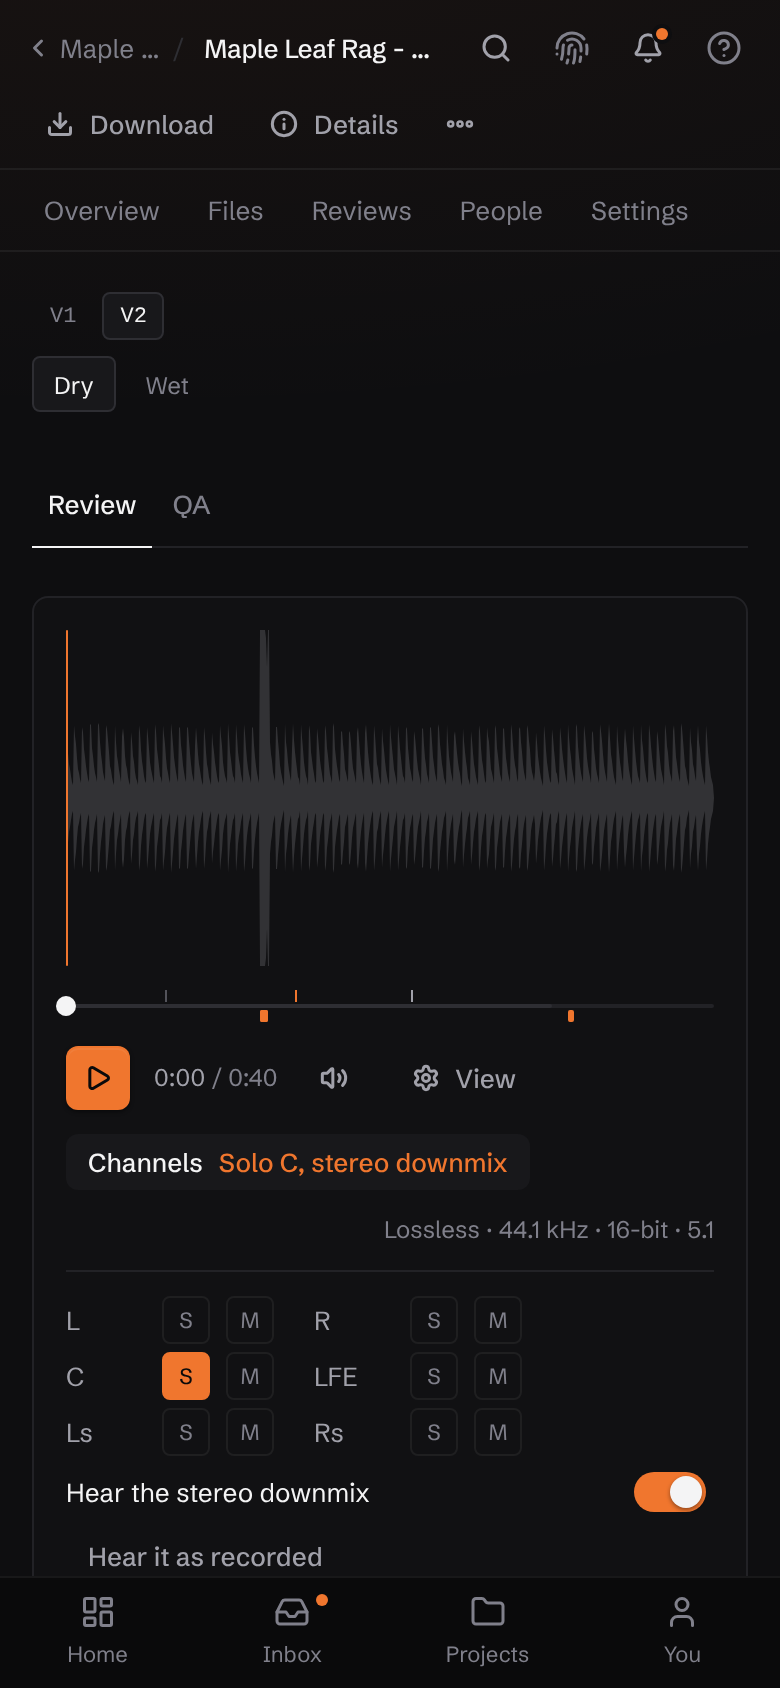
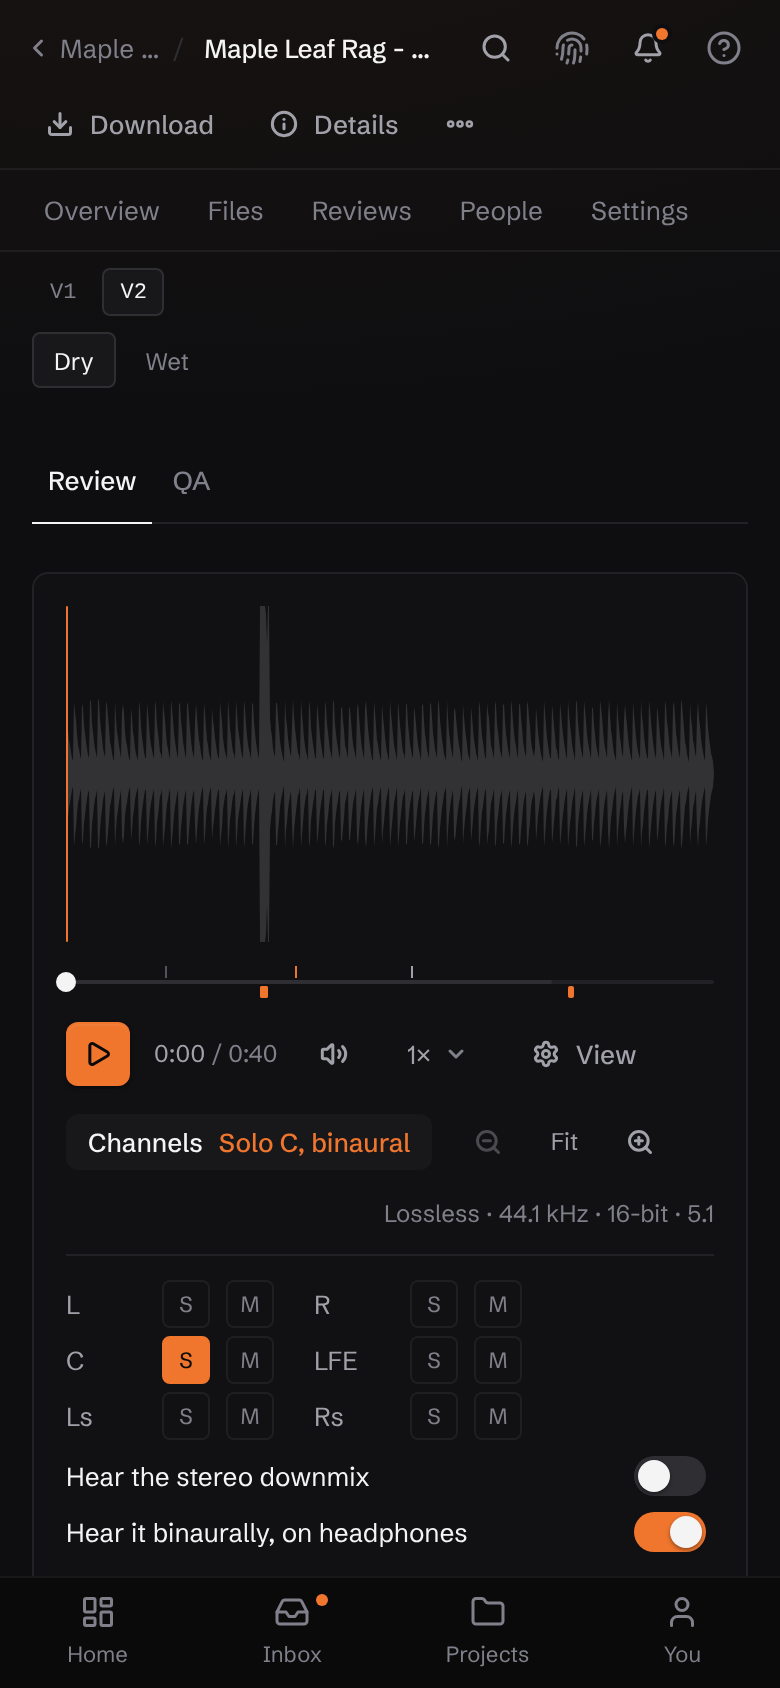
feat(web): hear a surround recording binaurally, on headphones (#307)
Refs #74

Claude-Session: https://claude.ai/code/session_015TRj2XJrf2hGBbTKBkRfmp

diff --git a/apps/web/src/lib/channel-mix.ts b/apps/web/src/lib/channel-mix.ts
@@ -7,18 +7,22 @@ import { useEffect } from "react";
  * which carries every channel as recorded.
  */
 
-/** What is chosen: one channel soloed, any muted, and whether surround folds down to stereo. */
+/**
+ * What is chosen: one channel soloed, any muted, and whether surround folds down to stereo or
+ * is rendered binaurally for headphones (one or the other).
+ */
 export interface ChannelMix {
   solo: number | null;
   muted: readonly number[];
   downmix: boolean;
+  binaural: boolean;
 }
 
-export const plainMix: ChannelMix = { solo: null, muted: [], downmix: false };
+export const plainMix: ChannelMix = { solo: null, muted: [], downmix: false, binaural: false };
 
 /** Whether a mix changes anything: the plain one is the recording as the browser plays it. */
 export const isPlain = (mix: ChannelMix) =>
-  mix.solo === null && mix.muted.length === 0 && !mix.downmix;
+  mix.solo === null && mix.muted.length === 0 && !mix.downmix && !mix.binaural;
 
 /**
  * Speakers as engineers name them, from ffmpeg's channel labels (FL, FR, FC, LFE...). The rear
@@ -116,6 +120,108 @@ export function mixUnavailable(channels: number, rendition: string | null): stri
   return "Choose Lossless to hear each channel.";
 }
 
+/** Degrees to the left of straight ahead (azimuth) and above the ear (elevation). */
+interface Direction {
+  azimuth: number;
+  elevation: number;
+}
+
+/**
+ * Where each speaker stands around the listener, as ITU-R BS.2051 places them: the front pair
+ * at 30°, the surrounds of 5.1 at 110°, those of 7.1 at 90° (sides) and 135° (rears), and the
+ * height layer 30° up. The LFE has no place: it is heard from everywhere.
+ */
+export function speakerDirection(label: string, labels: readonly string[]): Direction | null {
+  const withRears = labels.includes("SL") && labels.includes("BL");
+  const at = (azimuth: number, elevation = 0) => ({ azimuth, elevation });
+  switch (label) {
+    case "FL":
+      return at(30);
+    case "FR":
+      return at(-30);
+    case "FC":
+      return at(0);
+    case "FLC":
+      return at(15);
+    case "FRC":
+      return at(-15);
+    case "SL":
+      return at(withRears ? 90 : 110);
+    case "SR":
+      return at(withRears ? -90 : -110);
+    case "BL":
+      return at(withRears ? 135 : 110);
+    case "BR":
+      return at(withRears ? -135 : -110);
+    case "BC":
+      return at(180);
+    case "TFL":
+      return at(45, 30);
+    case "TFR":
+      return at(-45, 30);
+    case "TFC":
+      return at(0, 30);
+    case "TSL":
+      return at(90, 30);
+    case "TSR":
+      return at(-90, 30);
+    case "TBL":
+      return at(135, 30);
+    case "TBR":
+      return at(-135, 30);
+    case "TBC":
+      return at(180, 30);
+    case "TC":
+      return at(0, 90);
+    // The wides, the surround directs and a downmix pair, as ffmpeg names them.
+    case "WL":
+      return at(60);
+    case "WR":
+      return at(-60);
+    case "SDL":
+      return at(90);
+    case "SDR":
+      return at(-90);
+    case "DL":
+      return at(30);
+    case "DR":
+      return at(-30);
+    // The bottom layer, below the ear.
+    case "BFL":
+      return at(45, -30);
+    case "BFR":
+      return at(-45, -30);
+    case "BFC":
+      return at(0, -30);
+    default:
+      return null;
+  }
+}
+
+const isLfe = (label: string) => /^LFE\d?$/.test(label);
+
+/**
+ * Whether a layout can be heard binaurally: each channel an LFE or a speaker with a known
+ * place. One that is neither would be guessed at, so the option is not offered.
+ */
+export const canBinaural = (labels: readonly string[] | null) =>
+  Boolean(labels?.every((l) => isLfe(l) || speakerDirection(l, labels) !== null));
+
+/**
+ * A direction as Web Audio's coordinates, a metre away: the listener at the origin facing −z,
+ * x to the right, y up.
+ */
+export function panPosition({ azimuth, elevation }: Direction) {
+  const a = (azimuth * Math.PI) / 180;
+  const e = (elevation * Math.PI) / 180;
+  const round = (n: number) => Math.round(n * 1e6) / 1e6 || 0;
+  return {
+    x: round(-Math.sin(a) * Math.cos(e)),
+    y: round(Math.sin(e)),
+    z: round(-Math.cos(a) * Math.cos(e)),
+  };
+}
+
 /** Each channel's level under a mix: a solo silences the rest, a mute its channel. */
 export const channelGains = (channels: number, mix: ChannelMix) =>
   Array.from({ length: channels }, (_, i) =>
@@ -129,7 +235,7 @@ export function mixLabel(mix: ChannelMix, names: readonly string[]): string | nu
     mix.solo === null && mix.muted.length > 0
       ? `${mix.muted.map((i) => names[i] ?? i + 1).join(", ")} muted`
       : null,
-    mix.downmix ? "stereo downmix" : null,
+    mix.binaural ? "binaural" : mix.downmix ? "stereo downmix" : null,
   ].filter(Boolean) as string[];
   if (parts.length === 0) return null;
   const text = parts.join(", ");
@@ -175,7 +281,42 @@ export function useChannelMix(
     const levels = channelGains(channels, mix);
     const nodes: AudioNode[] = [splitter];
     // A fold-down needs to know which speaker each channel is; without that, none is made.
-    if (mix.downmix && labels) {
+    if (mix.binaural && labels && canBinaural(labels)) {
+      // Each speaker at its place around the listener, through the browser's HRTF; the LFE
+      // to both ears. Scaled by the speakers' count so a wide layout is no louder than stereo.
+      const placed = labels.filter((l) => speakerDirection(l, labels)).length;
+      const scale = Math.sqrt(2 / Math.max(2, placed));
+      const out = context.createGain();
+      out.gain.value = scale;
+      labels.forEach((label, i) => {
+        const gain = context.createGain();
+        gain.gain.value = levels[i] ?? 0;
+        splitter.connect(gain, i);
+        nodes.push(gain);
+        const direction = speakerDirection(label, labels);
+        // canBinaural leaves only the LFE without a place: to both ears.
+        if (!direction) {
+          gain.gain.value *= HALF;
+          gain.connect(out);
+          return;
+        }
+        const { x, y, z } = panPosition(direction);
+        // No fall-off with distance: only the direction is wanted.
+        const panner = new PannerNode(context, {
+          panningModel: "HRTF",
+          rolloffFactor: 0,
+          positionX: x,
+          positionY: y,
+          positionZ: z,
+        });
+        gain.connect(panner);
+        panner.connect(out);
+        nodes.push(panner);
+      });
+      context.destination.channelCount = 2;
+      out.connect(context.destination);
+      nodes.push(out);
+    } else if (mix.downmix && labels) {
       const merger = context.createChannelMerger(2);
       downmixGains(labels).forEach((share, i) => {
         for (const [output, amount] of [

diff --git a/apps/web/src/lib/channel-mix.test.ts b/apps/web/src/lib/channel-mix.test.ts
@@ -1,11 +1,14 @@
 import { describe, expect, it } from "vitest";
 import {
+  canBinaural,
   channelGains,
   downmixGains,
   isPlain,
   mixLabel,
   mixUnavailable,
+  panPosition,
   plainMix,
+  speakerDirection,
   speakerNames,
 } from "./channel-mix";
 
@@ -71,5 +74,33 @@ describe("hearing a recording's channels (#74)", () => {
     expect(mixUnavailable(6, "aac-256")).toMatch(/stereo downmix: choose Lossless/);
     expect(mixUnavailable(6, "eac3")).toMatch(/Dolby stream/);
     expect(mixUnavailable(12, "flac")).toMatch(/12 channels; a browser plays up to 8/);
+  });
+
+  it("places each speaker around the listener for a binaural render, the LFE nowhere", () => {
+    expect(speakerDirection("FL", fiveOne)).toEqual({ azimuth: 30, elevation: 0 });
+    // 5.1's surrounds at 110°; 7.1's sides at 90° and rears at 135°.
+    expect(speakerDirection("SR", fiveOne)).toEqual({ azimuth: -110, elevation: 0 });
+    expect(speakerDirection("SL", sevenOne)).toEqual({ azimuth: 90, elevation: 0 });
+    expect(speakerDirection("BL", sevenOne)).toEqual({ azimuth: 135, elevation: 0 });
+    expect(speakerDirection("TFL", [...sevenOne, "TFL"])).toEqual({ azimuth: 45, elevation: 30 });
+    expect(speakerDirection("LFE", fiveOne)).toBeNull();
+    expect(speakerDirection("WL", [...sevenOne, "WL", "WR"])).toEqual({
+      azimuth: 60,
+      elevation: 0,
+    });
+    // Offered only where every channel is an LFE or has a place.
+    expect(canBinaural(fiveOne)).toBe(true);
+    expect(canBinaural([...sevenOne, "LFE2"])).toBe(true);
+    expect(canBinaural(["FL", "FR", "FC", "XQ"])).toBe(false);
+    expect(canBinaural(null)).toBe(false);
+    // Web Audio faces −z with x to the right: the centre ahead, the left to the left, the top up.
+    expect(panPosition({ azimuth: 0, elevation: 0 })).toEqual({ x: 0, y: 0, z: -1 });
+    expect(panPosition({ azimuth: 90, elevation: 0 })).toEqual({ x: -1, y: 0, z: 0 });
+    expect(panPosition({ azimuth: 0, elevation: 90 })).toMatchObject({ y: 1 });
+  });
+
+  it("says when it is heard binaurally", () => {
+    expect(mixLabel({ ...plainMix, binaural: true }, speakerNames(fiveOne, 6))).toBe("Binaural");
+    expect(isPlain({ ...plainMix, binaural: true })).toBe(false);
   });
 });

diff --git a/apps/prototype/src/components/video-tools.tsx b/apps/prototype/src/components/video-tools.tsx
@@ -275,10 +275,11 @@ export function AudioLayoutMenu({ layout }: { layout: string }) {
   const [muted, setMuted] = useState<Set<string>>(new Set());
   const [solo, setSolo] = useState<string | null>(null);
   const [downmix, setDownmix] = useState(false);
+  const [binaural, setBinaural] = useState(false);
   const heard = [
     solo ? `Solo ${solo}` : null,
     !solo && muted.size > 0 ? `${[...muted].join(", ")} muted` : null,
-    downmix ? "stereo downmix" : null,
+    binaural ? "binaural" : downmix ? "stereo downmix" : null,
   ]
     .filter(Boolean)
     .join(", ");
@@ -346,7 +347,27 @@ export function AudioLayoutMenu({ layout }: { layout: string }) {
           {channels.length > 2 && (
             <div className="flex items-center justify-between text-[13px] text-ink">
               Hear the stereo downmix
-              <Switch label="Hear the stereo downmix" checked={downmix} onChange={setDownmix} />
+              <Switch
+                label="Hear the stereo downmix"
+                checked={downmix}
+                onChange={(on) => {
+                  setDownmix(on);
+                  if (on) setBinaural(false);
+                }}
+              />
+            </div>
+          )}
+          {channels.length > 2 && (
+            <div className="flex items-center justify-between text-[13px] text-ink">
+              Hear it binaurally, on headphones
+              <Switch
+                label="Hear it binaurally, on headphones"
+                checked={binaural}
+                onChange={(on) => {
+                  setBinaural(on);
+                  if (on) setDownmix(false);
+                }}
+              />
             </div>
           )}
           {heard && (
@@ -356,6 +377,7 @@ export function AudioLayoutMenu({ layout }: { layout: string }) {
                 setSolo(null);
                 setMuted(new Set());
                 setDownmix(false);
+                setBinaural(false);
               }}
               className="w-fit text-[13px] text-ink-3 hover:text-ink"
             >

diff --git a/apps/web/src/components/channels.tsx b/apps/web/src/components/channels.tsx
@@ -80,6 +80,7 @@ export function ChannelsPanel({
   mix,
   onMix,
   canDownmix,
+  canBinaural = false,
   unavailable,
   levelsOf,
 }: {
@@ -89,6 +90,8 @@ export function ChannelsPanel({
   onMix: (mix: ChannelMix) => void;
   /** Whether a stereo downmix can be made: only where the layout names every channel. */
   canDownmix: boolean;
+  /** Whether it can be heard binaurally: only where every channel has a known place. */
+  canBinaural?: boolean;
   /** Why the channels cannot be heard apart in what is playing, if they cannot. */
   unavailable?: string;
   /** Where to read each channel's level at the playhead; none for those without the meters. */
@@ -178,7 +181,18 @@ export function ChannelsPanel({
               <Switch
                 label="Hear the stereo downmix"
                 checked={mix.downmix}
-                onChange={(downmix) => onMix({ ...mix, downmix })}
+                onChange={(downmix) => onMix({ ...mix, downmix, binaural: false })}
+              />
+            </div>
+          )}
+          {names.length > 2 && canBinaural && (
+            // Each speaker placed around the listener, for headphones (#74).
+            <div className="flex items-center justify-between gap-3 text-[13px] text-ink">
+              Hear it binaurally, on headphones
+              <Switch
+                label="Hear it binaurally, on headphones"
+                checked={mix.binaural}
+                onChange={(binaural) => onMix({ ...mix, binaural, downmix: false })}
               />
             </div>
           )}

diff --git a/apps/web/src/components/player.tsx b/apps/web/src/components/player.tsx
@@ -26,6 +26,7 @@ import {
 } from "react";
 import {
   type ChannelMix,
+  canBinaural,
   mixUnavailable,
   plainMix,
   speakerNames,
@@ -271,8 +272,13 @@ export function Player({
   const names = useMemo(() => speakerNames(labels, channels), [labels, channels]);
   const heardRendition = choices.find((c) => c.level === level)?.rendition.name ?? null;
   const channelsUnavailable = mixUnavailable(channels, heardRendition);
-  // Folding down needs each channel's speaker; a file that does not say offers no downmix.
-  const heardMix = channelsUnavailable ? plainMix : labels ? mix : { ...mix, downmix: false };
+  // Folding down or placing the speakers needs each channel's speaker; a file that does not
+  // say offers neither.
+  const heardMix = channelsUnavailable
+    ? plainMix
+    : labels
+      ? { ...mix, binaural: mix.binaural && canBinaural(labels) }
+      : { ...mix, downmix: false, binaural: false };
   useChannelMix(element, channels, labels, heardMix);
   const view: WaveformView = split && channels > 1 ? "channels" : "combined";
   const display: Display =
@@ -992,6 +998,7 @@ export function Player({
               names={names}
               mix={heardMix}
               canDownmix={labels !== null}
+              canBinaural={canBinaural(labels)}
               onMix={setMix}
               unavailable={channelsUnavailable}
               levelsOf={!tools || tools.includes("meters") ? { fileId, media: element } : undefined}

diff --git a/apps/e2e/tests/screens.spec.ts b/apps/e2e/tests/screens.spec.ts
@@ -859,6 +859,10 @@ test("file-channels", async ({ page }) => {
     await menu.getByRole("button", { name: "Solo C" }).click();
     await menu.getByRole("switch", { name: "Hear the stereo downmix" }).click();
     await expect(page.getByRole("button", { name: /^Channels: solo c/ })).toBeVisible();
+    // Binaural in its place: one or the other.
+    await menu.getByRole("switch", { name: "Hear it binaurally, on headphones" }).click();
+    await expect(page.getByRole("button", { name: "Channels: solo c, binaural" })).toBeVisible();
+    await expect(menu.getByRole("switch", { name: "Hear the stereo downmix" })).not.toBeChecked();
   }
   await saveScreen(page, "file-channels");
   await checkScreen(page);

diff --git a/docs/decisions.md b/docs/decisions.md
@@ -397,7 +397,7 @@ The QA view's tally is also its filter (#43): each count of a problem ("4 failed
 
 ## 098. A recording's channels are heard apart in the browser
 
-The player hears a recording's channels apart (#74), as the prototype's audio layout menu does: a Channels button beside View opens, under the player's controls as the View settings do, a row for each speaker (L, R, C, LFE, Ls, Rs, as engineers name them from the file's layout) with solo and mute, and, for anything wider than stereo whose layout names each channel, "Hear the stereo downmix" (a file that does not say which speaker each channel is gets no downmix, rather than one that guesses). The button says what is changed ("Solo C, stereo downmix"), and "Hear it as recorded" undoes it. It is done in the browser with Web Audio over the stream that plays, so no new rendition is made and nothing leaves the protected delivery path: the channels are split, each given its level, and either folded to stereo (ITU-R BS.775: the front pair whole, the rest at −3 dB, the LFE left out, scaled so neither side sums above full scale, as ffmpeg's own downmix for the AAC is) or passed through as recorded, a device with fewer outputs folding them down itself. Nothing passes through Web Audio until someone first changes the mix, so ordinary listening is untouched. A stereo file's channels can be heard apart in any rendition; a wider one only in the lossless stream, which carries every channel (the AAC is a stereo downmix, and a Dolby stream is decoded as the browser sees fit), and only up to eight channels, the most a browser plays from one stream. Otherwise the panel says why and what to choose. Each channel's row also shows its level at the playhead, as the prototype's rows do: the RMS the worker measured, read from the stored loudness series, so no audio is analysed in the browser, dimmed for a channel muted or not soloed, and shown only to those with the meters. A pair of channels whose file does not say how they are laid out is left and right, as the loudness meters name it; anything wider is numbered. Binaural rendering and wider layouts follow separately.
+The player hears a recording's channels apart (#74), as the prototype's audio layout menu does: a Channels button beside View opens, under the player's controls as the View settings do, a row for each speaker (L, R, C, LFE, Ls, Rs, as engineers name them from the file's layout) with solo and mute, and, for anything wider than stereo whose layout names each channel, "Hear the stereo downmix" (a file that does not say which speaker each channel is gets no downmix, rather than one that guesses). The button says what is changed ("Solo C, stereo downmix"), and "Hear it as recorded" undoes it. It is done in the browser with Web Audio over the stream that plays, so no new rendition is made and nothing leaves the protected delivery path: the channels are split, each given its level, and either folded to stereo (ITU-R BS.775: the front pair whole, the rest at −3 dB, the LFE left out, scaled so neither side sums above full scale, as ffmpeg's own downmix for the AAC is) or passed through as recorded, a device with fewer outputs folding them down itself. Nothing passes through Web Audio until someone first changes the mix, so ordinary listening is untouched. A stereo file's channels can be heard apart in any rendition; a wider one only in the lossless stream, which carries every channel (the AAC is a stereo downmix, and a Dolby stream is decoded as the browser sees fit), and only up to eight channels, the most a browser plays from one stream. Otherwise the panel says why and what to choose. Each channel's row also shows its level at the playhead, as the prototype's rows do: the RMS the worker measured, read from the stored loudness series, so no audio is analysed in the browser, dimmed for a channel muted or not soloed, and shown only to those with the meters. A pair of channels whose file does not say how they are laid out is left and right, as the loudness meters name it; anything wider is numbered. Binaural listening is decision 103; wider layouts follow separately.
 
 ## 099. A recording plays slower or faster, its pitch kept
 
@@ -418,3 +418,7 @@ A version's edit decision list (#56), given when the version is made or afterwar
 Each event's source is matched to one of the track's takes: by its clip name, then its reel, against the take's file name or label (case, spaces, punctuation and extension aside); then by a reel cut short from the file's name (eight characters, in a strict list); then by a take number written as T12, TK12 or Take 12. Black and auxiliary sources are no take. The take's own timecode (Broadcast Wave's time reference) is where its file starts, so the source timecode less that is where in the take the edit begins; a take with no timecode starts at zero, and a place that falls outside the file is left unknown rather than guessed. Where the take has bars, its bars are spread evenly over the part that counts (its in and out points, or the whole file) to say which bars the edit uses, as near as that can say.
 
 The takes view shows it, as the prototype's Edit decisions does: each edit in order, with its place in the version, the take it comes from (or the source the list names, where it is no take of this track), where in the take, and which bars; the takes the version uses are marked "in V3", with their bars under their lane, which answers "which take is used at bar 72" alongside the takes covering it. A bar thread's Other takes marks the take the list uses at that bar the same way ("in V3"), and the takes view can show only the takes the list uses ("In V3"), as the prototype's take manager does. It needs `view_takes`, as the takes do. The list is text about an edit, not media: it is read on the server and nothing new reaches the browser but the matches. Pyramix's and Sequoia's own formats, and a project's upload rule reading the list rather than only asking for one, follow separately.
+
+## 103. A surround recording can be heard binaurally, on headphones
+
+Beside the stereo downmix, the Channels panel offers "Hear it binaurally, on headphones" (#74), one or the other: each speaker of a layout that names its channels is placed around the listener where ITU-R BS.2051 puts it (the front pair at 30°, 5.1's surrounds at 110°, 7.1's sides at 90° and rears at 135°, the height layer 30° up) and rendered through the browser's own head-related transfer function (Web Audio's HRTF panner), with no fall-off for distance. The LFE has no place and goes to both ears at −3 dB, and the whole is scaled by the number of speakers so a wide layout is no louder than stereo. As with the downmix, it is done over the stream that plays, so nothing new is made or sent; solo and mute apply before it, and it is offered only where every channel is an LFE or a speaker with a known place (the wides, surround directs and bottom layer among them), never guessing where one stands. It is a reviewer's monitoring aid, not Dolby's or any renderer's binaural: an ADM master's objects are not rendered (decision 096), only its bed as channels.
